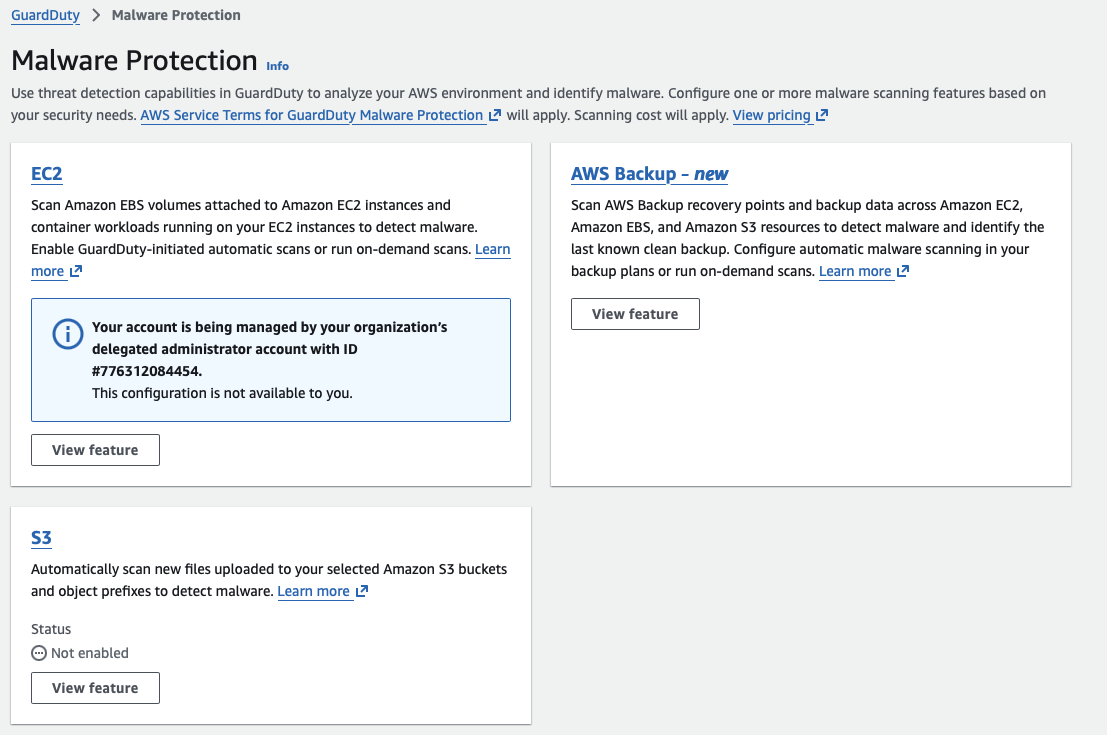
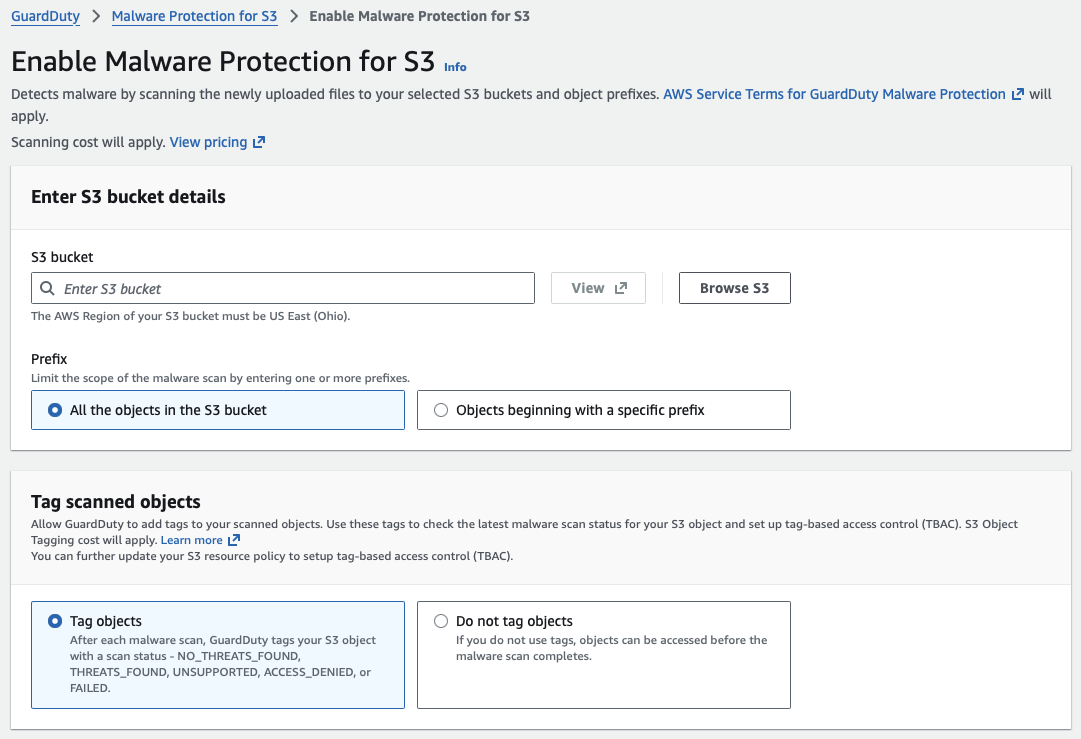
posts

diff --git a/_posts/2025-12-21-enable-compute-optimizer-hub.md b/_posts/2025-12-21-enable-compute-optimizer-hub.md
@@ -1,0 +1,28 @@
+---
+layout: post
+title: "ClickOps #15 - Enable Compute Optimizer Hub"
+author: "John Lukach"
+tags: aws budget compute optimizer
+---
+
+Cost plays such a huge part in managing a cloud environment, where I wanted to try the Cost Optimizer Hub feature.
+
+![compute optimizer](/images/2025/12/21/1-compute-optimizer.png)
+
+![compute optimizer](/images/2025/12/21/2-compute-optimizer.png)
+
+The UI should have taken me to the AWS Compute Optimizer as the initial setup step.
+
+![compute optimizer](/images/2025/12/21/3-compute-optimizer.png)
+
+![compute optimizer](/images/2025/12/21/4-compute-optimizer.png)
+
+I skipped the Automation feature for now.
+
+![compute optimizer](/images/2025/12/21/5-compute-optimizer.png)
+
+I enabled USE1, USE2, and USW2 to provide savings recommendations.
+
+![compute optimizer](/images/2025/12/21/6-compute-optimizer.png)
+
+![compute optimizer](/images/2025/12/21/7-compute-optimizer.png)

diff --git a/_posts/2025-12-22-create-cost-anomaly-monitor.md b/_posts/2025-12-22-create-cost-anomaly-monitor.md
@@ -1,0 +1,26 @@
+---
+layout: post
+title: "ClickOps #16 - Create Cost Anomaly Monitor"
+author: "John Lukach"
+tags: aws budget cost anomaly
+---
+
+AWS automatically created a cost anomaly monitor when I made the new management account. I cleared out the default so I could set up my own.
+
+![cost anomaly](/images/2025/12/22/1-cost-anomaly.png)
+
+![cost anomaly](/images/2025/12/22/2-cost-anomaly.png)
+
+![cost anomaly](/images/2025/12/22/3-cost-anomaly.png)
+
+I am interested in being notified of any service cost increases of 10%. I wanted to do increments, but I was only allowed one AWS Services monitor.
+
+![cost anomaly](/images/2025/12/22/4-cost-anomaly.png)
+
+![cost anomaly](/images/2025/12/22/5-cost-anomaly.png)
+
+Detections can only be alerted by an SNS Topic, so I used an email subscription for now.
+
+![cost anomaly](/images/2025/12/22/6-cost-anomaly.png)
+
+![cost anomaly](/images/2025/12/22/7-cost-anomaly.png)

diff --git a/_posts/2025-12-23-create-advanced-budget-alert.md b/_posts/2025-12-23-create-advanced-budget-alert.md
@@ -1,0 +1,38 @@
+---
+layout: post
+title: "ClickOps #17 - Create Advanced Budget Alert"
+author: "John Lukach"
+tags: aws budget alert cost
+---
+
+I set up budget alerts for $20 increments, typically delayed by 24 hours.
+
+![budget alert](/images/2025/12/23/1-budget-alert.png)
+
+### Choose budget type
+
+![budget alert](/images/2025/12/23/2-budget-alert.png)
+
+### Set your budget
+
+![budget alert](/images/2025/12/23/3-budget-alert.png)
+
+![budget alert](/images/2025/12/23/4-budget-alert.png)
+
+![budget alert](/images/2025/12/23/5-budget-alert.png)
+
+### Configure alerts
+
+![budget alert](/images/2025/12/23/6-budget-alert.png)
+
+![budget alert](/images/2025/12/23/7-budget-alert.png)
+
+![budget alert](/images/2025/12/23/8-budget-alert.png)
+
+### Attach actions
+
+![budget alert](/images/2025/12/23/9-budget-alert.png)
+
+### Review
+
+![budget alert](/images/2025/12/23/10-budget-alert.png)

diff --git a/_posts/2025-12-25-route53-failover-routing-policy.md b/_posts/2025-12-25-route53-failover-routing-policy.md
@@ -1,0 +1,18 @@
+---
+layout: post
+title: "ClickOps #19 - Route53 Failover Routing Policy"
+author: "John Lukach"
+tags: aws route53 failover policy
+---
+
+I always want everything to be Infrastructure as Code (IaC); however, that is not always possible! The Route53 for Failover routing policy has an issue with the Cloud Development Kit (CDK) constructs when deploying.
+
+![route53 failover policy](/images/2025/12/25/1-route53-failover.png)
+
+![route53 failover policy](/images/2025/12/25/2-route53-failover.png)
+
+![route53 failover policy](/images/2025/12/25/3-route53-failover.png)
+
+![route53 failover policy](/images/2025/12/25/4-route53-failover.png)
+
+![route53 failover policy](/images/2025/12/25/5-route53-failover.png)

diff --git a/_posts/2025-12-24-deploy-api-gateway-logging.md b/_posts/2025-12-24-deploy-api-gateway-logging.md
@@ -1,0 +1,16 @@
+---
+layout: post
+title: "ClickOps #18 - Deploy API Gateway Logging"
+author: "John Lukach"
+tags: aws api gateway logs
+---
+
+I always want everything to be Infrastructure as Code (IaC); however, that is not always possible! The API Gateway for HTTP has an issue with the Cloud Development Kit (CDK) constructs on the automatic $Default stage.
+
+![api gateway logs](/images/2025/12/24/1-api-logging.png)
+
+![api gateway logs](/images/2025/12/24/2-api-logging.png)
+
+![api gateway logs](/images/2025/12/24/3-api-logging.png)
+
+![api gateway logs](/images/2025/12/24/4-api-logging.png)

diff --git a/_posts/2025-12-20-malware-protection-for-s3-buckets.md b/_posts/2025-12-20-malware-protection-for-s3-buckets.md
@@ -1,0 +1,16 @@
+---
+layout: post
+title: "ClickOps #14 - Malware Protection for S3 Buckets"
+author: "John Lukach"
+tags: aws guardduty malware protection s3
+---
+
+Malware Protection for S3 Buckets from GuardDuty is a simple way to inspect files brought into your AWS Account from external sources.
+
+ ![s3 malware protection](/images/2025/12/20/1-malware-protection.png)
+
+ ![s3 malware protection](/images/2025/12/20/2-malware-protection.png)
+
+![s3 malware protection](/images/2025/12/20/3-malware-protection.png)
+
+![s3 malware protection](/images/2025/12/20/4-malware-protection.png)
